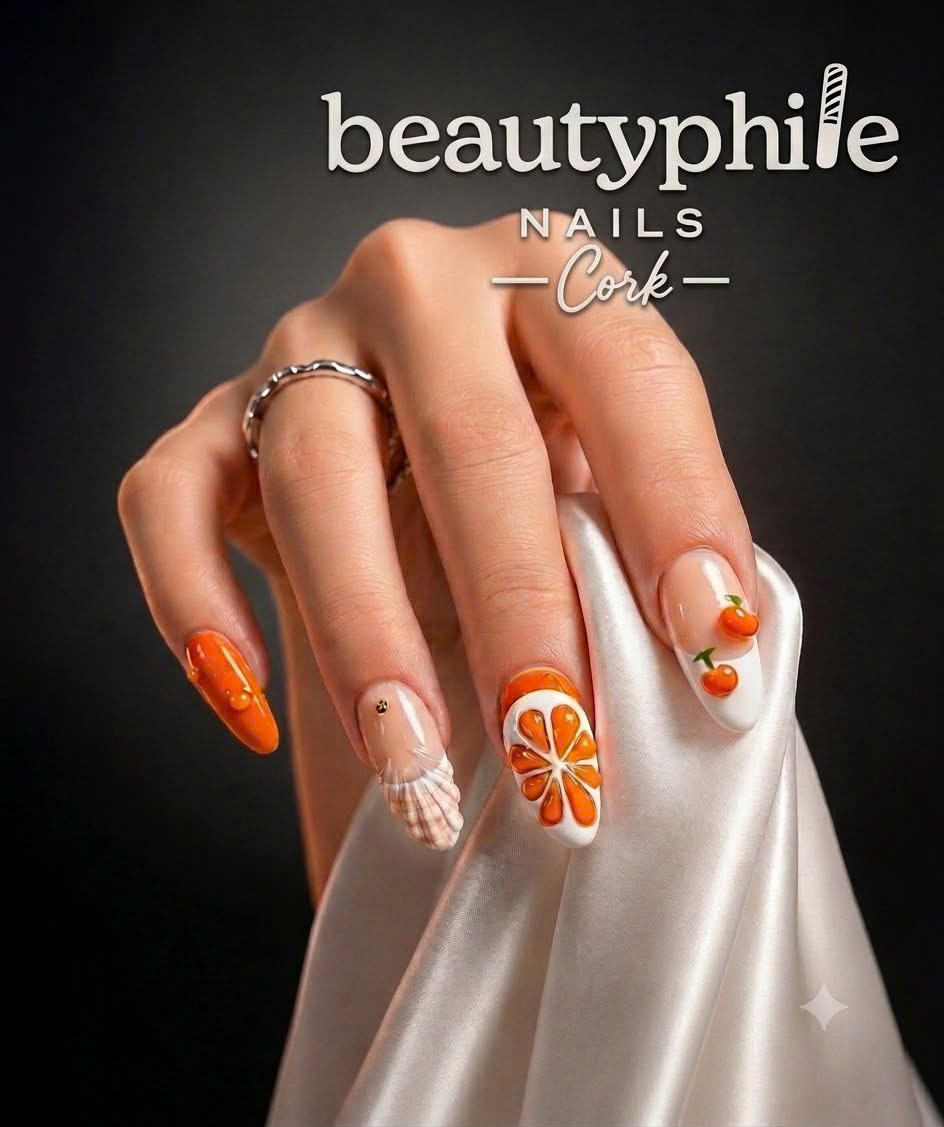
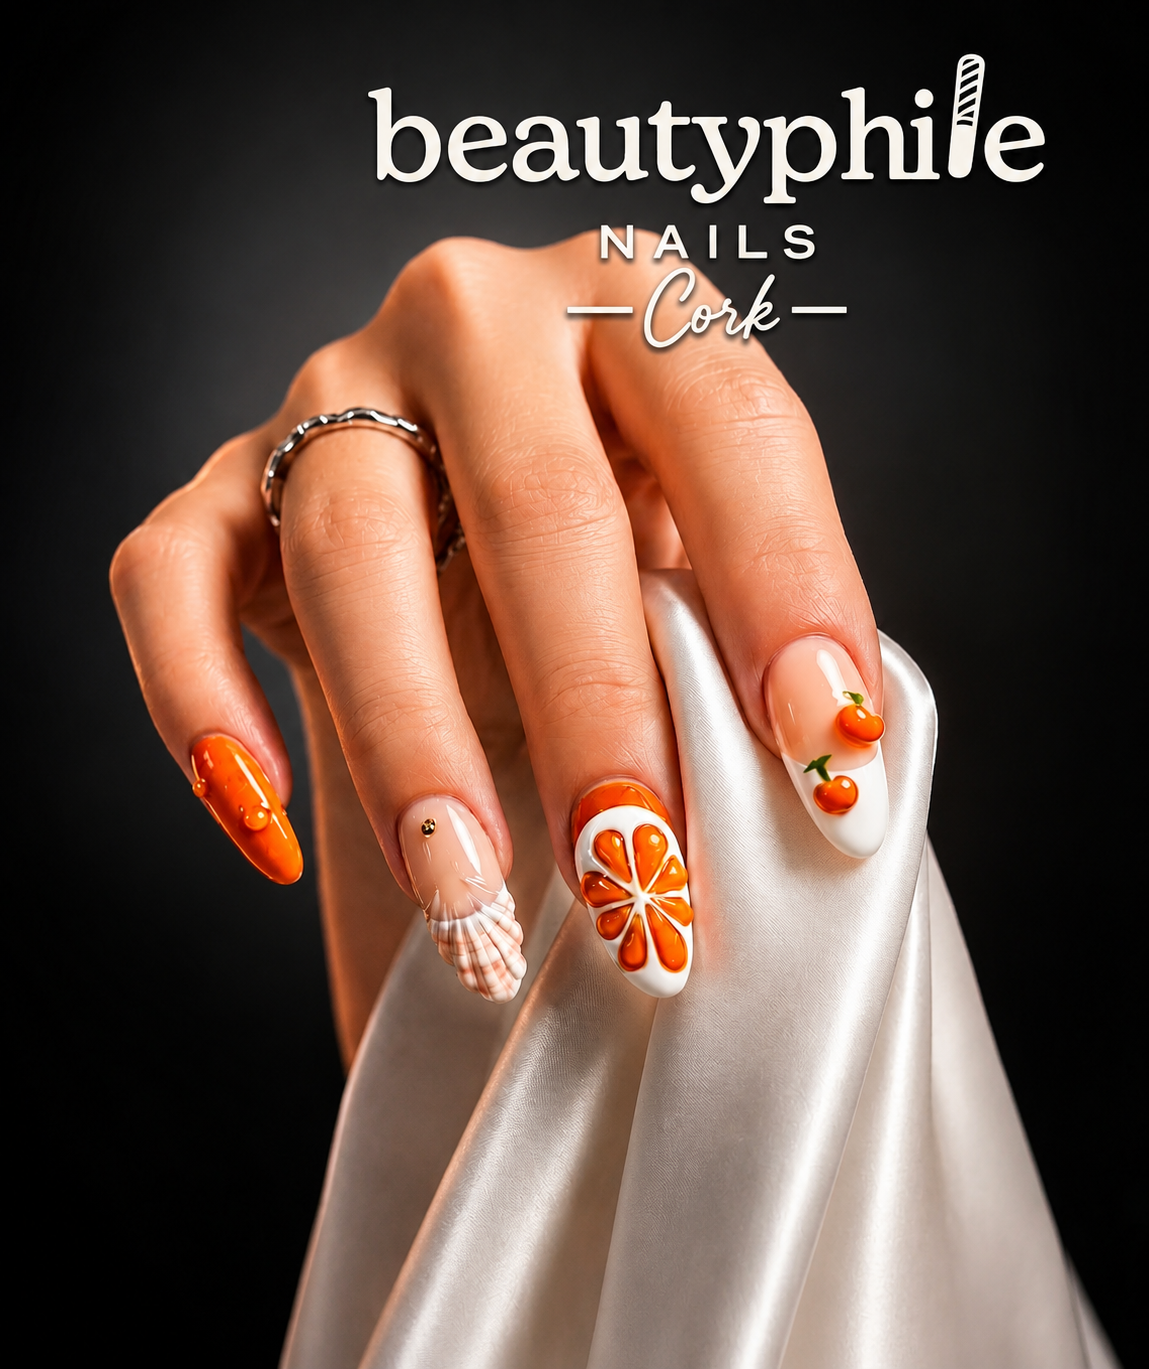
update

diff --git a/lib/site.ts b/lib/site.ts
@@ -69,35 +69,35 @@ export const explorePages: {
     title: "Recent work",
     description: "Soft manicure inspiration and finished sets from the boutique.",
     href: "/gallery",
-    image: "/images/placeholders/beautyphile-ocean-art.jpg",
+    image: "/images/beautyphile-ocean-art.jpg",
   },
   {
     label: "Aftercare",
     title: "Nail aftercare",
     description: "Simple daily habits to keep your manicure beautiful for longer.",
     href: "/aftercare",
-    image: "/images/placeholders/salon-products.jpg",
+    image: "/images/salon-products.jpg",
   },
   {
     label: "Reviews",
     title: "Client reviews",
     description: "What clients say about their Beautyphile appointments.",
     href: "/reviews",
-    image: "/images/placeholders/gallery-french-soft.jpg",
+    image: "/images/gallery-french-soft.jpg",
   },
   {
     label: "Visit",
     title: "Find the salon",
     description: "Opening hours, map and directions to 9 Oliver Plunkett Street.",
     href: "/visit",
-    image: "/images/placeholders/storefront-3x4.jpg",
+    image: "/images/storefront-3x4.jpg",
   },
   {
     label: "Salon",
     title: "Inside the boutique",
     description: "Bright stations and a calm city-centre experience.",
     href: "/gallery#salon",
-    image: "/images/placeholders/bentrongquan.png",
+    image: "/images/bentrongquan.png",
   },
 ];
 
@@ -124,35 +124,35 @@ export const serviceCategories = [
     title: "BIAB",
     eyebrow: "Strength and shape",
     description: "Builder gel overlays for stronger natural nails with a refined glossy finish.",
-    image: "/images/placeholders/nail1.png",
+    image: "/images/nail1.png",
     icon: Sparkles,
   },
   {
     title: "Manicure",
     eyebrow: "Clean, polished hands",
     description: "Cuticle care, shaping and colour designed for neat, wearable elegance.",
-    image: "/images/placeholders/service-manicure.jpg",
+    image: "/images/service-manicure.jpg",
     icon: HandHeart,
   },
   {
     title: "Shellac and Gel",
     eyebrow: "Long-wear shine",
     description: "Smooth colour, soft neutrals, crisp classics and seasonal tones.",
-    image: "/images/placeholders/bentrongquan.png",
+    image: "/images/bentrongquan.png",
     icon: Gem,
   },
   {
     title: "French",
     eyebrow: "Quiet luxury",
     description: "Milky, micro, classic and modern French sets with balanced proportions.",
-    image: "/images/placeholders/gallery-french-soft.jpg",
+    image: "/images/gallery-french-soft.jpg",
     icon: Brush,
   },
   {
     title: "Nail Art",
     eyebrow: "Small details, big mood",
     description: "Minimal accents, chrome moments, florals and custom art for your set.",
-    image: "/images/placeholders/service-technician.jpg",
+    image: "/images/service-technician.jpg",
     icon: Paintbrush2,
   },
   {
@@ -166,14 +166,14 @@ export const serviceCategories = [
     title: "Acrylic and Extensions",
     eyebrow: "Length and structure",
     description: "Extensions shaped to your lifestyle, from soft almond to statement sets.",
-    image: "/images/placeholders/gallery-blue-french.jpg",
+    image: "/images/gallery-blue-french.jpg",
     icon: Star,
   },
   {
     title: "Kids and Men",
     eyebrow: "Welcoming care",
     description: "Neat grooming, gentle services and approachable treatments for every client.",
-    image: "/images/placeholders/service-kids.jpg",
+    image: "/images/service-kids.jpg",
     icon: HeartHandshake,
   },
 ];
@@ -287,50 +287,50 @@ export const galleryItems: {
   {
     title: "Ocean art almond set",
     filter: "Nail Art",
-    image: "/images/placeholders/beautyphile-ocean-art.jpg",
+    image: "/images/beautyphile-ocean-art.jpg",
     tall: true,
   },
   {
     title: "Pink shimmer almond set",
     filter: "BIAB",
-    image: "/images/placeholders/nail1.png",
+    image: "/images/nail1.png",
   },
   {
     title: "Soft ombre BIAB with jewellery",
     filter: "BIAB",
-    image: "/images/placeholders/hero-nails.jpg",
+    image: "/images/hero-nails.jpg",
   },
   {
     title: "Milky French manicure",
     filter: "French",
-    image: "/images/placeholders/gallery-french-soft.jpg",
+    image: "/images/gallery-french-soft.jpg",
   },
   {
     title: "Glossy colour refresh",
     filter: "Gel",
-    image: "/images/placeholders/gallery-gel-colour.jpg",
+    image: "/images/gallery-gel-colour.jpg",
     tall: true,
   },
   {
     title: "Blue French detail",
     filter: "French",
-    image: "/images/placeholders/gallery-blue-french.jpg",
+    image: "/images/gallery-blue-french.jpg",
   },
   {
     title: "Soft heart nail art",
     filter: "Nail Art",
-    image: "/images/placeholders/gallery-heart-art.jpg",
+    image: "/images/gallery-heart-art.jpg",
   },
   {
     title: "Gold almond finish",
     filter: "Gel",
-    image: "/images/placeholders/gallery-gold-almond.jpg",
+    image: "/images/gallery-gold-almond.jpg",
     tall: true,
   },
   {
     title: "Floral nail detail",
     filter: "Nail Art",
-    image: "/images/placeholders/gallery-floral-detail.jpg",
+    image: "/images/gallery-floral-detail.jpg",
   },
 ];
 
@@ -387,17 +387,17 @@ export const salonImages = [
   {
     title: "Pastel boutique interior",
     description: "Mint, blush and warm lighting create a calm Cork City nail space.",
-    image: "/images/placeholders/bentrongquan1.png",
+    image: "/images/bentrongquan1.png",
   },
   {
     title: "Colour wall",
     description: "A polished range for soft classics, seasonal tones and detailed nail art.",
-    image: "/images/placeholders/bentrongquan.png",
+    image: "/images/bentrongquan.png",
   },
   {
     title: "Quiet treatment stations",
     description: "Clean manicure and pedicure stations arranged for comfortable appointments.",
-    image: "/images/placeholders/salon-interior.jpg",
+    image: "/images/salon-interior.jpg",
   },
 ];
 

diff --git a/app/layout.tsx b/app/layout.tsx
@@ -51,7 +51,7 @@ export const metadata: Metadata = {
     type: "website",
     images: [
       {
-        url: "/images/placeholders/nail3.png",
+        url: "/images/nail3.png",
         width: 1286,
         height: 1223,
         alt: "Pearl chrome extension nails by Beautyphile Nails Cork",
@@ -63,7 +63,7 @@ export const metadata: Metadata = {
     title: "Beautyphile Nails Cork",
     description:
       "A soft, modern nail boutique for BIAB, gel, French and nail art in Cork City.",
-    images: ["/images/placeholders/nail3.png"],
+    images: ["/images/nail3.png"],
   },
   icons: {
     icon: "/images/logo-icon.png",

diff --git a/components/sections.tsx b/components/sections.tsx
@@ -177,7 +177,7 @@ export function Hero() {
           >
             <div className="image-reveal absolute inset-0 overflow-hidden rounded-[1.75rem] bg-white/40">
               <Image
-                src="/images/placeholders/nail3.png"
+                src="/images/nail3.png"
                 alt="Pearl chrome extension nails by Beautyphile Nails Cork"
                 fill
                 quality={82}
@@ -752,7 +752,7 @@ export function VisitBooking() {
             <div className="flex h-full flex-col justify-between rounded-2xl border border-gold-100 bg-cream-50 p-6 shadow-soft-line sm:p-8">
               <div className="relative mb-6 aspect-square overflow-hidden rounded-xl border border-gold-100 bg-white">
                 <Image
-                  src="/images/placeholders/mặt trước tiệm.jpg"
+                  src="/images/mặt trước tiệm.jpg"
                   alt="Beautyphile Nails Cork storefront on Oliver Plunkett Street"
                   fill
                   quality={90}